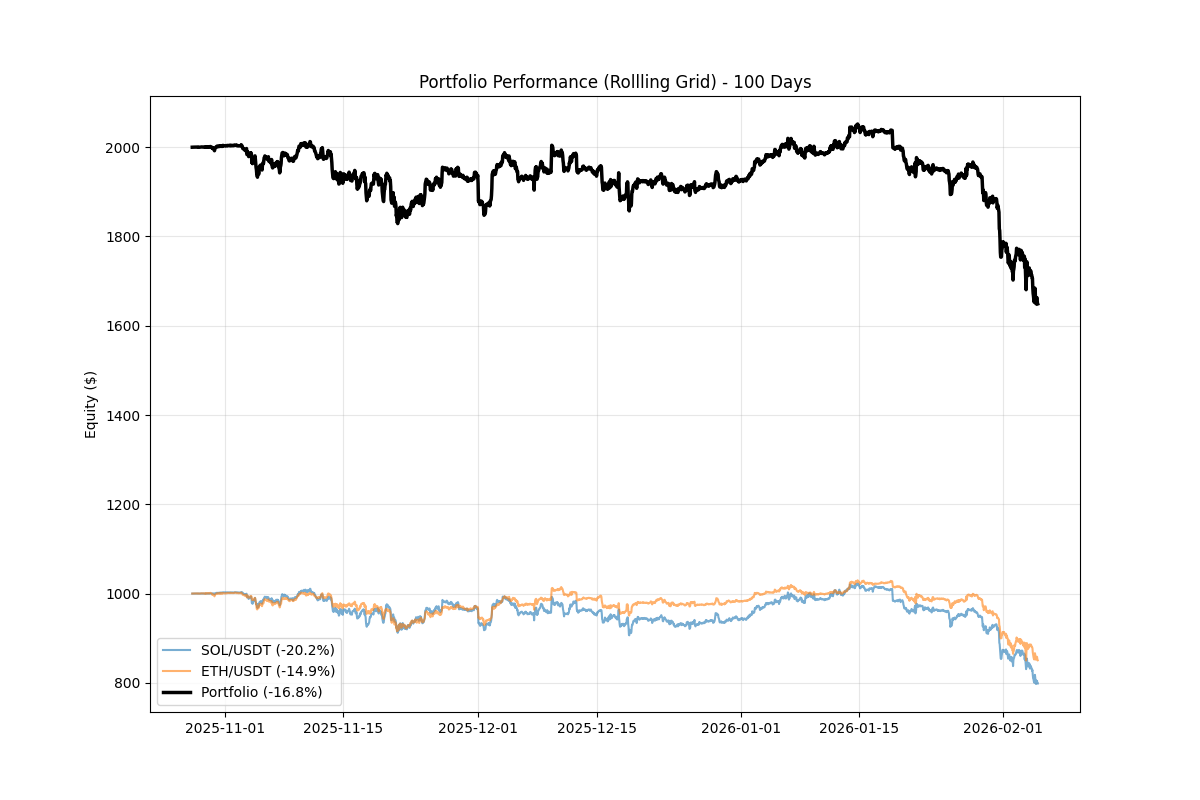
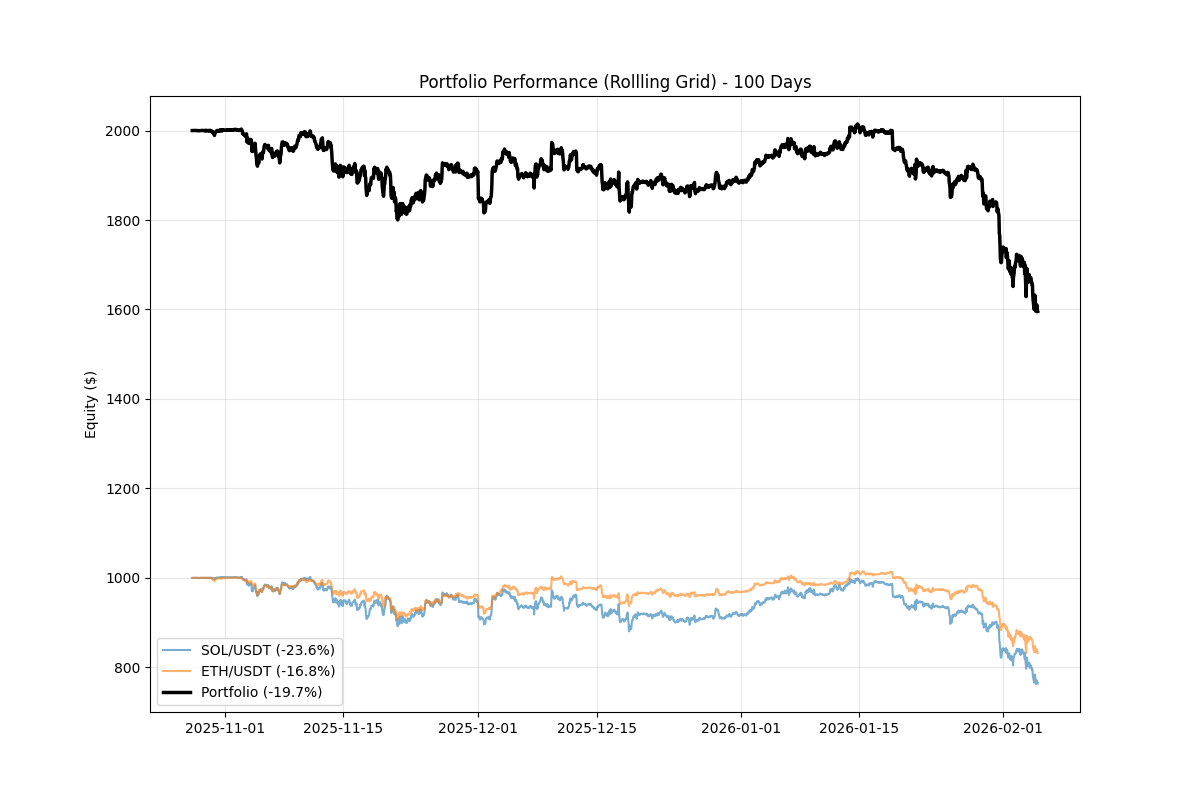
feat: Introduce dynamic intra-candle execution order in the simulator, enhance data cache validation, and refine profit factor and Sharpe ratio calculations.

diff --git a/backtest/simulator.py b/backtest/simulator.py
@@ -162,91 +162,99 @@ class GridSimulator:
                 logger.warning(f"Stop-loss triggered at {self.stop_loss}")
                 break
             
-            # Check for buy fills (price went down through grid levels)
-            filled_buys = []
-            for level in list(buy_levels):
-                grid_price = self.grid_prices[level]
-                if low <= grid_price:
-                    # Buy filled!
-                    cost = grid_price * self.amount_per_grid
-                    fee = cost * (self.fees_percent / 100)
-                    
-                    if capital >= cost + fee:
-                        capital -= cost + fee
-                        
-                        # Update inventory and avg cost
-                        total_cost = (avg_cost * inventory) + (grid_price * self.amount_per_grid)
-                        inventory += self.amount_per_grid
-                        avg_cost = total_cost / inventory if inventory > 0 else 0.0
-                        
-                        trades.append(Trade(
-                            timestamp=timestamp,
-                            side='buy',
-                            price=grid_price,
-                            amount=self.amount_per_grid,
-                            grid_level=level
-                        ))
-                        
-                        filled_buys.append(level)
-                        
-                        # Place sell order one level higher
-                        if level + 1 <= self.grid_levels:
-                            sell_levels.add(level + 1)
-                        elif self.rolling:
-                            # Roll grid UP
-                            self.grid_prices.pop(0)
-                            new_top = self.grid_prices[-1] + self.grid_step
-                            self.grid_prices.append(new_top)
-                            sell_levels.add(len(self.grid_prices) - 1)
+            # Determine intra-candle execution order
+            # Green (Open <= Close): Low -> High (Buy then Sell)
+            # Red   (Open > Close):  High -> Low (Sell then Buy)
+            phases = ['buy', 'sell'] if row['open'] <= row['close'] else ['sell', 'buy']
             
-            for level in filled_buys:
-                buy_levels.discard(level)
-            
-            # Check for sell fills (price went up through grid levels)
-            filled_sells = []
-            for level in list(sell_levels):
-                grid_price = self.grid_prices[level]
-                if high >= grid_price and inventory >= self.amount_per_grid:
-                    # Sell filled!
-                    amount = min(self.amount_per_grid, inventory)
-                    proceeds = grid_price * amount
-                    fee = proceeds * (self.fees_percent / 100)
+            for phase in phases:
+                if phase == 'buy':
+                    # Check for buy fills (price went down through grid levels)
+                    filled_buys = []
+                    for level in list(buy_levels):
+                        grid_price = self.grid_prices[level]
+                        if low <= grid_price:
+                            # Buy filled!
+                            cost = grid_price * self.amount_per_grid
+                            fee = cost * (self.fees_percent / 100)
+                            
+                            if capital >= cost + fee:
+                                capital -= cost + fee
+                                
+                                # Update inventory and avg cost
+                                total_cost = (avg_cost * inventory) + (grid_price * self.amount_per_grid)
+                                inventory += self.amount_per_grid
+                                avg_cost = total_cost / inventory if inventory > 0 else 0.0
+                                
+                                trades.append(Trade(
+                                    timestamp=timestamp,
+                                    side='buy',
+                                    price=grid_price,
+                                    amount=self.amount_per_grid,
+                                    grid_level=level
+                                ))
+                                
+                                filled_buys.append(level)
+                                
+                                # Place sell order one level higher
+                                if level + 1 <= self.grid_levels:
+                                    sell_levels.add(level + 1)
+                                elif self.rolling:
+                                    # Roll grid UP
+                                    self.grid_prices.pop(0)
+                                    new_top = self.grid_prices[-1] + self.grid_step
+                                    self.grid_prices.append(new_top)
+                                    sell_levels.add(len(self.grid_prices) - 1)
                     
-                    pnl = (grid_price - avg_cost) * amount - fee
-                    realized_pnl += pnl
-                    capital += proceeds - fee
-                    inventory -= amount
+                    for level in filled_buys:
+                        buy_levels.discard(level)
+
+                elif phase == 'sell':
+                    # Check for sell fills (price went up through grid levels)
+                    filled_sells = []
+                    for level in list(sell_levels):
+                        grid_price = self.grid_prices[level]
+                        if high >= grid_price and inventory >= self.amount_per_grid:
+                            # Sell filled!
+                            amount = min(self.amount_per_grid, inventory)
+                            proceeds = grid_price * amount
+                            fee = proceeds * (self.fees_percent / 100)
+                            
+                            pnl = (grid_price - avg_cost) * amount - fee
+                            realized_pnl += pnl
+                            capital += proceeds - fee
+                            inventory -= amount
+                            
+                            if inventory <= 0:
+                                inventory = 0.0
+                                avg_cost = 0.0
+                            
+                            trades.append(Trade(
+                                timestamp=timestamp,
+                                side='sell',
+                                price=grid_price,
+                                amount=amount,
+                                grid_level=level,
+                                pnl=pnl
+                            ))
+                            
+                            filled_sells.append(level)
+                            
+                            # Place buy order one level lower
+                            if level - 1 >= 0:
+                                buy_levels.add(level - 1)
+                            elif self.rolling:
+                                # Roll grid DOWN
+                                self.grid_prices.pop()
+                                new_bottom = self.grid_prices[0] - self.grid_step
+                                self.grid_prices.insert(0, new_bottom)
+                                buy_levels.add(0)
+                                # Adjust all level indices in buy_levels and sell_levels
+                                buy_levels = {l + 1 for l in buy_levels if l >= 0}
+                                sell_levels = {l + 1 for l in sell_levels}
                     
-                    if inventory <= 0:
-                        inventory = 0.0
-                        avg_cost = 0.0
-                    
-                    trades.append(Trade(
-                        timestamp=timestamp,
-                        side='sell',
-                        price=grid_price,
-                        amount=amount,
-                        grid_level=level,
-                        pnl=pnl
-                    ))
-                    
-                    filled_sells.append(level)
-                    
-                    # Place buy order one level lower
-                    if level - 1 >= 0:
-                        buy_levels.add(level - 1)
-                    elif self.rolling:
-                        # Roll grid DOWN
-                        self.grid_prices.pop()
-                        new_bottom = self.grid_prices[0] - self.grid_step
-                        self.grid_prices.insert(0, new_bottom)
-                        buy_levels.add(0)
-                        # Adjust all level indices in buy_levels and sell_levels
-                        buy_levels = {l + 1 for l in buy_levels if l >= 0}
-                        sell_levels = {l + 1 for l in sell_levels}
-            
-            for level in filled_sells:
-                sell_levels.discard(level)
+                    for level in filled_sells:
+                        sell_levels.discard(level)
             
             # Track equity
             unrealized = inventory * close - (avg_cost * inventory) if inventory > 0 else 0.0

diff --git a/backtest/runner.py b/backtest/runner.py
@@ -145,17 +145,17 @@ def main():
     # Use strategy config as defaults, CLI args override
     if strategy:
         logger.info(f"Loaded strategy config for {args.pair}")
-        lower = args.lower or strategy.get('lower_limit')
-        upper = args.upper or strategy.get('upper_limit')
-        grids = args.grids or strategy.get('grid_levels', 20)
-        amount = args.amount or strategy.get('amount_per_grid', 0.1)
-        stop_loss = args.stop_loss or strategy.get('stop_loss')
-        rolling = args.rolling or strategy.get('rolling_grids', False)
+        lower = args.lower if args.lower is not None else strategy.get('lower_limit')
+        upper = args.upper if args.upper is not None else strategy.get('upper_limit')
+        grids = args.grids if args.grids is not None else strategy.get('grid_levels', 20)
+        amount = args.amount if args.amount is not None else strategy.get('amount_per_grid', 0.1)
+        stop_loss = args.stop_loss if args.stop_loss is not None else strategy.get('stop_loss')
+        rolling = args.rolling if args.rolling is not False else strategy.get('rolling_grids', False)
     else:
         lower = args.lower
         upper = args.upper
-        grids = args.grids or 20
-        amount = args.amount or 0.1
+        grids = args.grids if args.grids is not None else 20
+        amount = args.amount if args.amount is not None else 0.1
         stop_loss = args.stop_loss
         rolling = args.rolling
     

diff --git a/backtest/metrics.py b/backtest/metrics.py
@@ -67,7 +67,7 @@ def calculate_metrics(
         
         # Profit factor
         gross_profit = sum(winners) if winners else 0.0
-        gross_loss = abs(sum(losers)) if losers else 1.0  # Avoid division by zero
+        gross_loss = abs(sum(losers)) if losers else 0.0
         profit_factor = gross_profit / gross_loss if gross_loss > 0 else float('inf')
     else:
         win_rate = 0.0
@@ -88,8 +88,18 @@ def calculate_metrics(
     if len(equity_curve) > 1:
         returns = equity_curve.pct_change().dropna()
         if len(returns) > 0 and returns.std() > 0:
-            # Annualize (assuming hourly data, ~8760 hours per year)
-            periods_per_year = 8760
+            # Calculate periods per year dynamically
+            # Get median time diff in hours
+            time_diffs = equity_curve.index.to_series().diff().dropna()
+            if not time_diffs.empty:
+                median_seconds = time_diffs.dt.total_seconds().median()
+                if median_seconds > 0:
+                    periods_per_year = (365 * 24 * 3600) / median_seconds
+                else:
+                    periods_per_year = 8760 # Fallback to hourly
+            else:
+                 periods_per_year = 8760
+
             excess_return = returns.mean() - (risk_free_rate / periods_per_year)
             sharpe_ratio = excess_return / returns.std() * np.sqrt(periods_per_year)
     

diff --git a/backtest/data_fetcher.py b/backtest/data_fetcher.py
@@ -79,8 +79,11 @@ def fetch_ohlcv(
     # Try cache first
     if use_cache:
         cached = load_cached(symbol, timeframe)
-        if cached is not None and len(cached) >= days * 24:  # Rough check
-            return cached
+        if cached is not None and not cached.empty:
+            # Check if cache covers the requested duration
+            duration = cached.index[-1] - cached.index[0]
+            if duration >= timedelta(days=days - 0.1): # Allow small margin
+                return cached
     
     logger.info(f"Fetching {days} days of {timeframe} data for {symbol}...")
     

diff --git a/tests/test_risk_integration.py b/tests/test_risk_integration.py
@@ -46,6 +46,7 @@ class TestRiskEngineIntegration(unittest.TestCase):
         orch.bus = MagicMock()
         orch.risk_engine = self.risk_engine
         orch.logger = MagicMock()
+        orch.stop_broadcast_sent = False
         
         # Limits: Global 500.
         
